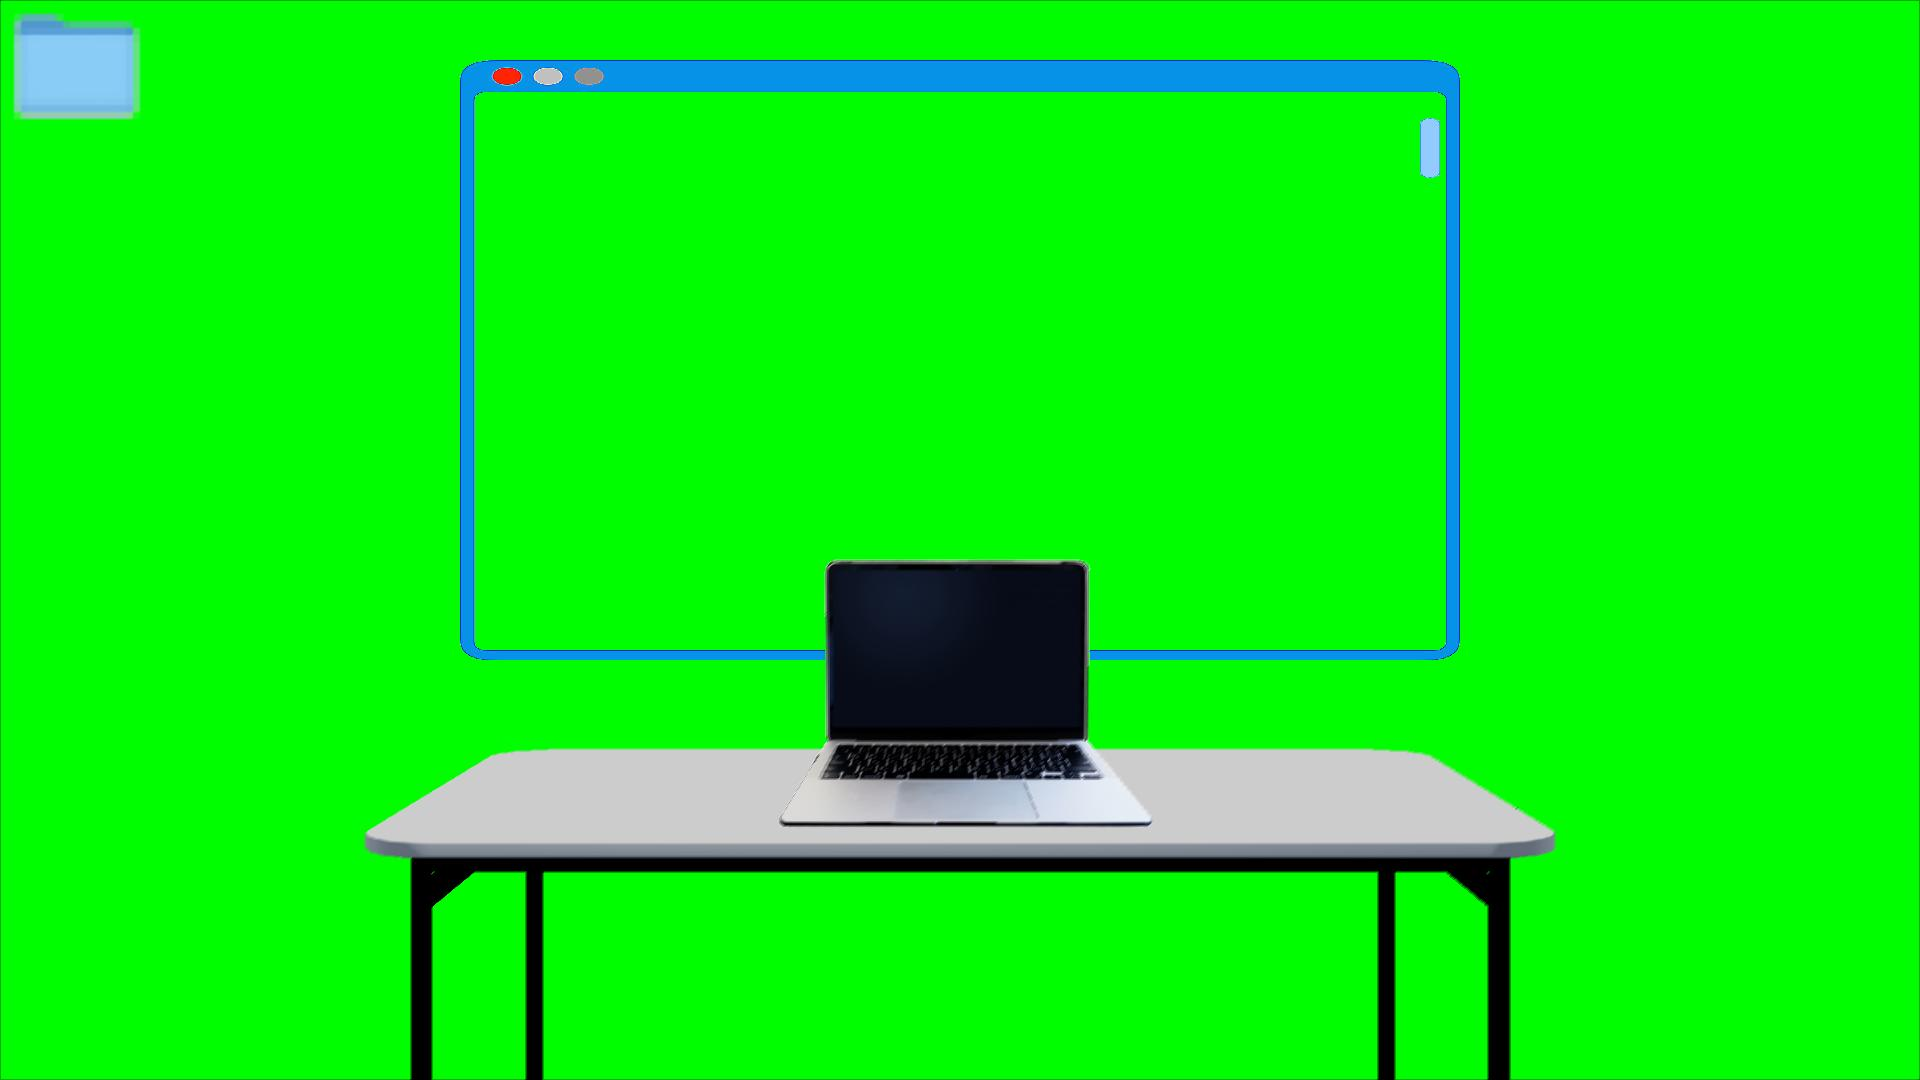
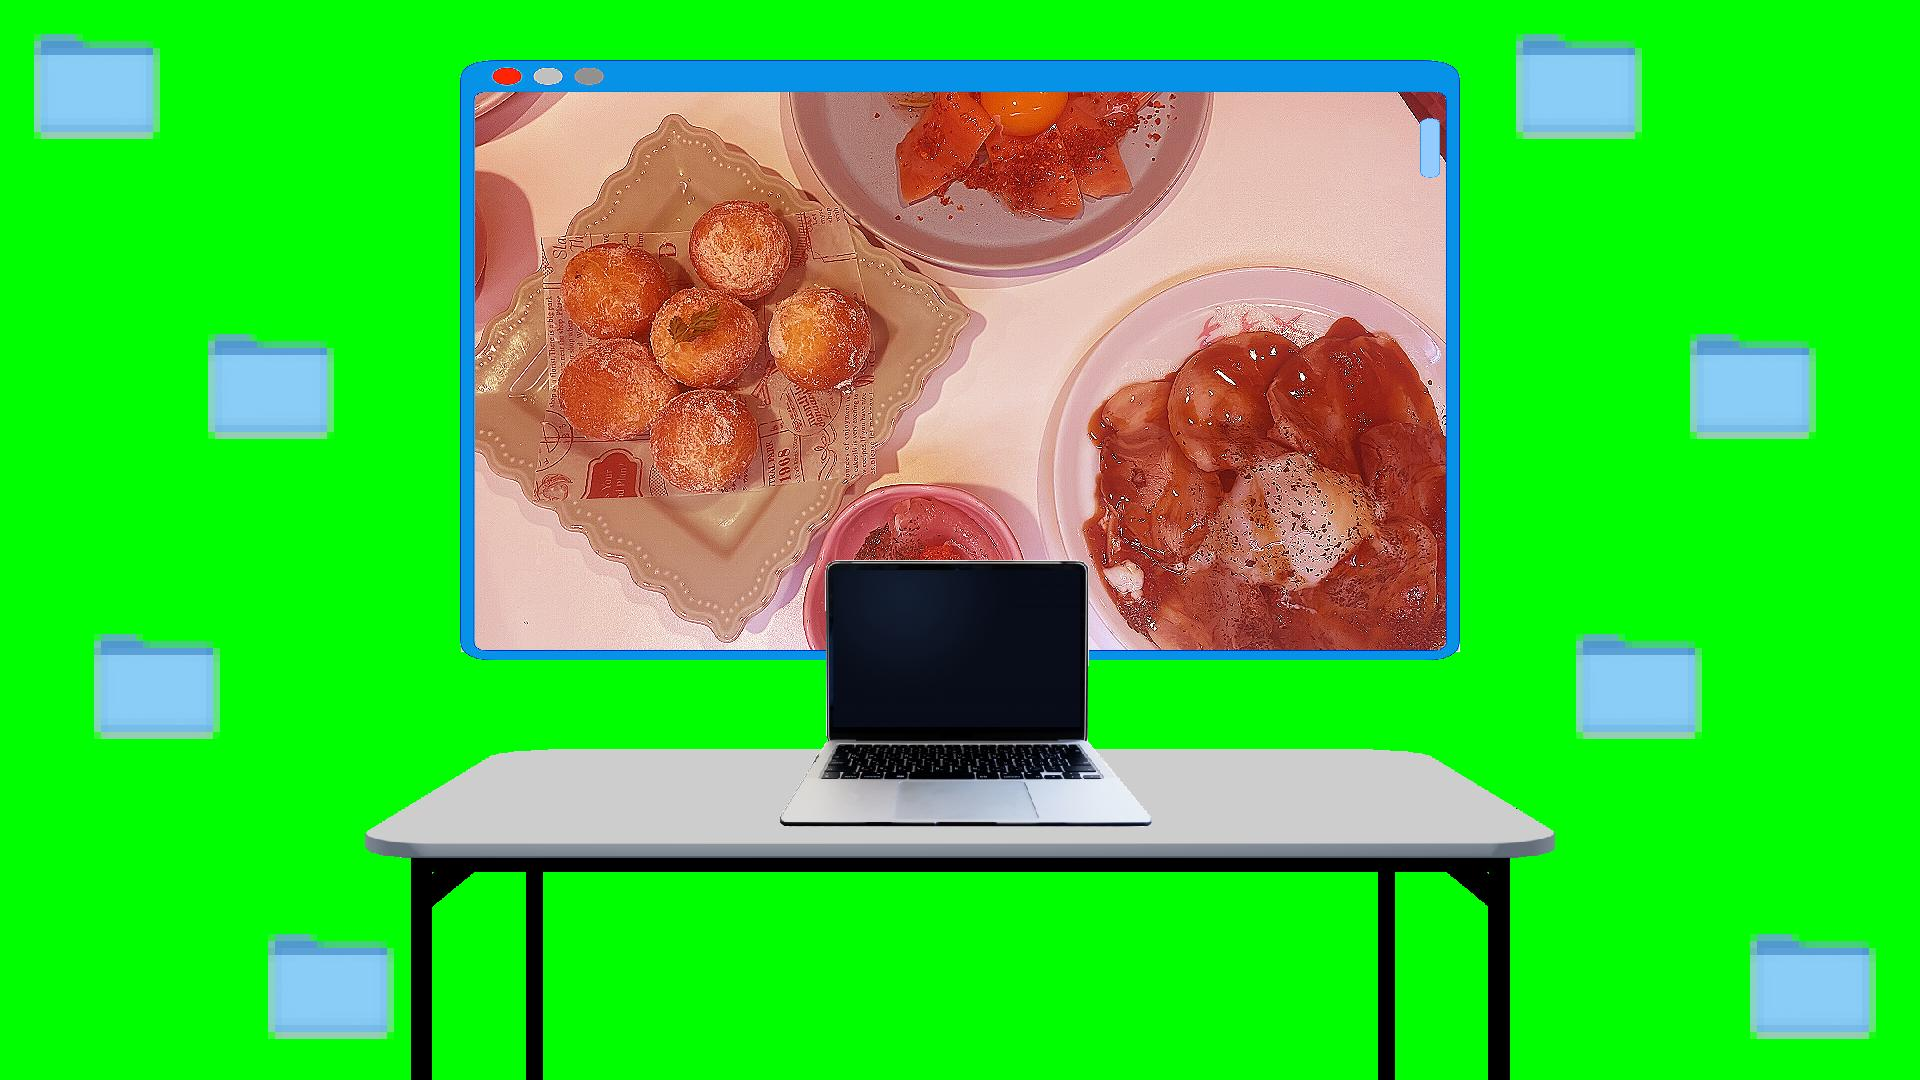
add food, many folders

diff --git a/CvMain.java b/CvMain.java
@@ -1,3 +1,5 @@
+// javac *.java -Xdiags:verbose && java CvMain && open copy.jpg
+
 import java.awt.Color;
 
 public class CvMain {
@@ -9,12 +11,16 @@ public class CvMain {
 		String filename_mac = "macbook.jpg";
 		String filename_folder = "folder.png";
 		String filename_window = "window.jpg";
+		String filename_food = "food.JPG";
 
 		String filename_output = "copy.jpg";
 
-		MyImage image_desk, image_desk_filter, image_desk_binalization, image_mac, image_mac_filter, image_mac_binalization, image_folder, image_folder_binalization, image_folder_mosaic, image_window, image_ClubUnreality, image_filter, image_output;
+		MyImage image_desk, image_desk_filter, image_desk_binalization, image_mac, image_mac_filter, image_mac_binalization, image_folder, image_folder_binalization, image_folder_mosaic, image_window, image_window_filter, image_food, image_food_window, image_ClubUnreality, image_filter, image_output;
 
-		Color background_color = new Color(0, 255, 0);
+		Color background_color = new Color(0, 255, 0);  // green
+
+		double filter_sharp [] = {0,-1,0,-1,5,-1,-0,-1,0}; // シャープ化フィルタ
+		double filter_smooth [] = {0,0,0.33333,0,0.33333,0,0.33333,0,0};  //方向に対して重みのある平滑化
 	
 		image_desk = JpegFileReader.read(filename_desk);
 		//image_desk_filter = SpaceFiltering.execute(image_desk);
@@ -27,8 +33,11 @@ public class CvMain {
 		image_folder = JpegFileReader.read(filename_folder);
 		image_folder_mosaic = Mosaic.execute(image_folder, background_color);
 
-		double filter1 [] = {0,-1,0,-1,5,-1,-0,-1,0};
-		image_window = SpaceFiltering.execute(JpegFileReader.read(filename_window), filter1);
+		image_food = SpaceFiltering.execute(GammaCorrection.execute(Scale.execute(JpegFileReader.read(filename_food))), filter_sharp);
+		image_window = JpegFileReader.read(filename_window);
+		//image_food_window = image_window;
+
+		image_window_filter = SpaceFiltering.execute(image_window, filter_sharp);
 
 		{
 			//image_output = Negative.execute(image1);
@@ -39,9 +48,9 @@ public class CvMain {
 			//image_output = Rotation.execute(image1);
 			//image_desk_dark = Dark.execute(image_desk);
 			image_ClubUnreality = ClubUnreality.execute(background_color, image_desk, image_desk_binalization, image_mac, image_mac_binalization, image_folder_mosaic);
-			double filter2 [] = {0,0,0.33333,0,0.33333,0,0.33333,0,0};
-			image_filter = SpaceFiltering.execute(image_ClubUnreality, filter2);
-			image_output = AddWindow.execute(image_filter, image_window); //filterをかけたくないものはここでadd
+			//image_filter = SpaceFiltering.execute(image_ClubUnreality, filter_smooth);
+			image_output = AddWindow.execute(image_ClubUnreality, image_window_filter, image_food); //filterをかけたくないものはここでadd
+			//image_output = image_food_window; //一旦ね。
 			//image_output = image_filter;
 		}
 

diff --git a/ClubUnreality.java b/ClubUnreality.java
@@ -3,10 +3,6 @@ import java.awt.Color;
 public class ClubUnreality {
 
   public static MyImage execute(Color background_color, MyImage input1, MyImage input1_bi, MyImage input2, MyImage input2_bi, MyImage input3) {
-
-    //int width_output = 1280;小さかった
-    //int height_output = 720;
-
     int width_output = input1.width;
     int height_output = input1.height;
 
@@ -52,10 +48,20 @@ public class ClubUnreality {
           }
 
           // folder
-          if (i < input3.height && j < input3.width) {
-            Color color3 = input3.getColor(j, i);
-            output.setColor(j, i, color3);
-            isProcessed = true;
+          for (int n = 0; n < 4; n++){
+            int plus_height = 300 * n + 20;
+            int plus_width = (750 * n + 20) % (int)(((width_output - input1.width * desk_scale) / 2));  //deskまでに収める
+            int plus_width_right = (int)(plus_width + width_output - (width_output - input1.width * desk_scale) / 2) - 150;  //調整用の150
+            if ((i > plus_height && i < input3.height + plus_height && j > plus_width && j < input3.width + plus_width)) {
+              Color color3 = input3.getColor(j - plus_width, i - plus_height);
+              output.setColor(j, i, color3);
+              isProcessed = true;
+            }
+            if (!isProcessed && i > plus_height && i < input3.height + plus_height && j > plus_width_right && j < input3.width + plus_width_right){
+              Color color3 = input3.getColor(j - plus_width_right, i - plus_height);
+              output.setColor(j, i, color3);
+              isProcessed = true;
+            }
           }
           
           // 背景

diff --git a/AddWindow.java b/AddWindow.java
@@ -4,7 +4,7 @@ import java.awt.Color;
 
 public class AddWindow {
 
-	public static MyImage execute(MyImage input1, MyImage input2) {
+	public static MyImage execute(MyImage input1, MyImage input2, MyImage input3) {
 
 		MyImage output = new MyImage(input1.width, input1.height);
 	
@@ -21,9 +21,19 @@ public class AddWindow {
         if (i < input2.height * scaley && j > (input1.width - input2.width * scalex) / 2 && j < (input1.width + input2.width * scalex) / 2) {
           Color color2 = input2.getColor((int)((j - (input1.width - input2.width * scalex) / 2) / scalex), (int)(i / scaley));
 
-          // windowの背景透過　&& input1の背景が緑
+          // windowの背景透過 && input1の背景が緑
           if (color2.getRed() + color2.getGreen() + color2.getBlue() < 255 * 3 - 100 && color1.getGreen() > 250){
-            output.setColor(j, i, color2);
+            output.setColor(j, i, color2);  //windowの色
+            isProcessed = true;
+          }
+        }
+
+        // food
+        int food_plus_height = 90;
+        if (!isProcessed && i > food_plus_height && i < input3.height + food_plus_height && j > (input1.width - input3.width) / 2 && j < (input1.width + input3.width) / 2){
+          Color color3 = input3.getColor((int)(j - (input1.width - input3.width) / 2), i - food_plus_height);
+          if (color1.getGreen() > 250){
+            output.setColor(j, i, color3);
             isProcessed = true;
           }
         }

diff --git a/GammaCorrection.java b/GammaCorrection.java
@@ -16,8 +16,8 @@ public class GammaCorrection {
 				// GAMMA > 0.0
 				// Colors with higher gamma will be stronger, colors with lower gamma will be weaker.
         double GAMMA_R = 2.0;
-        double GAMMA_G = 1.0;
-				double GAMMA_B = 1.0;
+        double GAMMA_G = 0.8;
+				double GAMMA_B = 0.8;
 
 			  int r = (int)(255.0 * Math.pow(color1.getRed() / 255.0, 1.0 / GAMMA_R));
 				int g = (int)(255.0 * Math.pow(color1.getGreen() / 255.0, 1.0 / GAMMA_G));

diff --git a/Scale.java b/Scale.java
@@ -3,7 +3,7 @@ import java.awt.*;
 
 
 public class Scale {
-	static double SCALEX, SCALEY;
+	static double SCALEX = 0.5, SCALEY = 0.5;
 	
 
 	static MyImage execute(MyImage input) {
